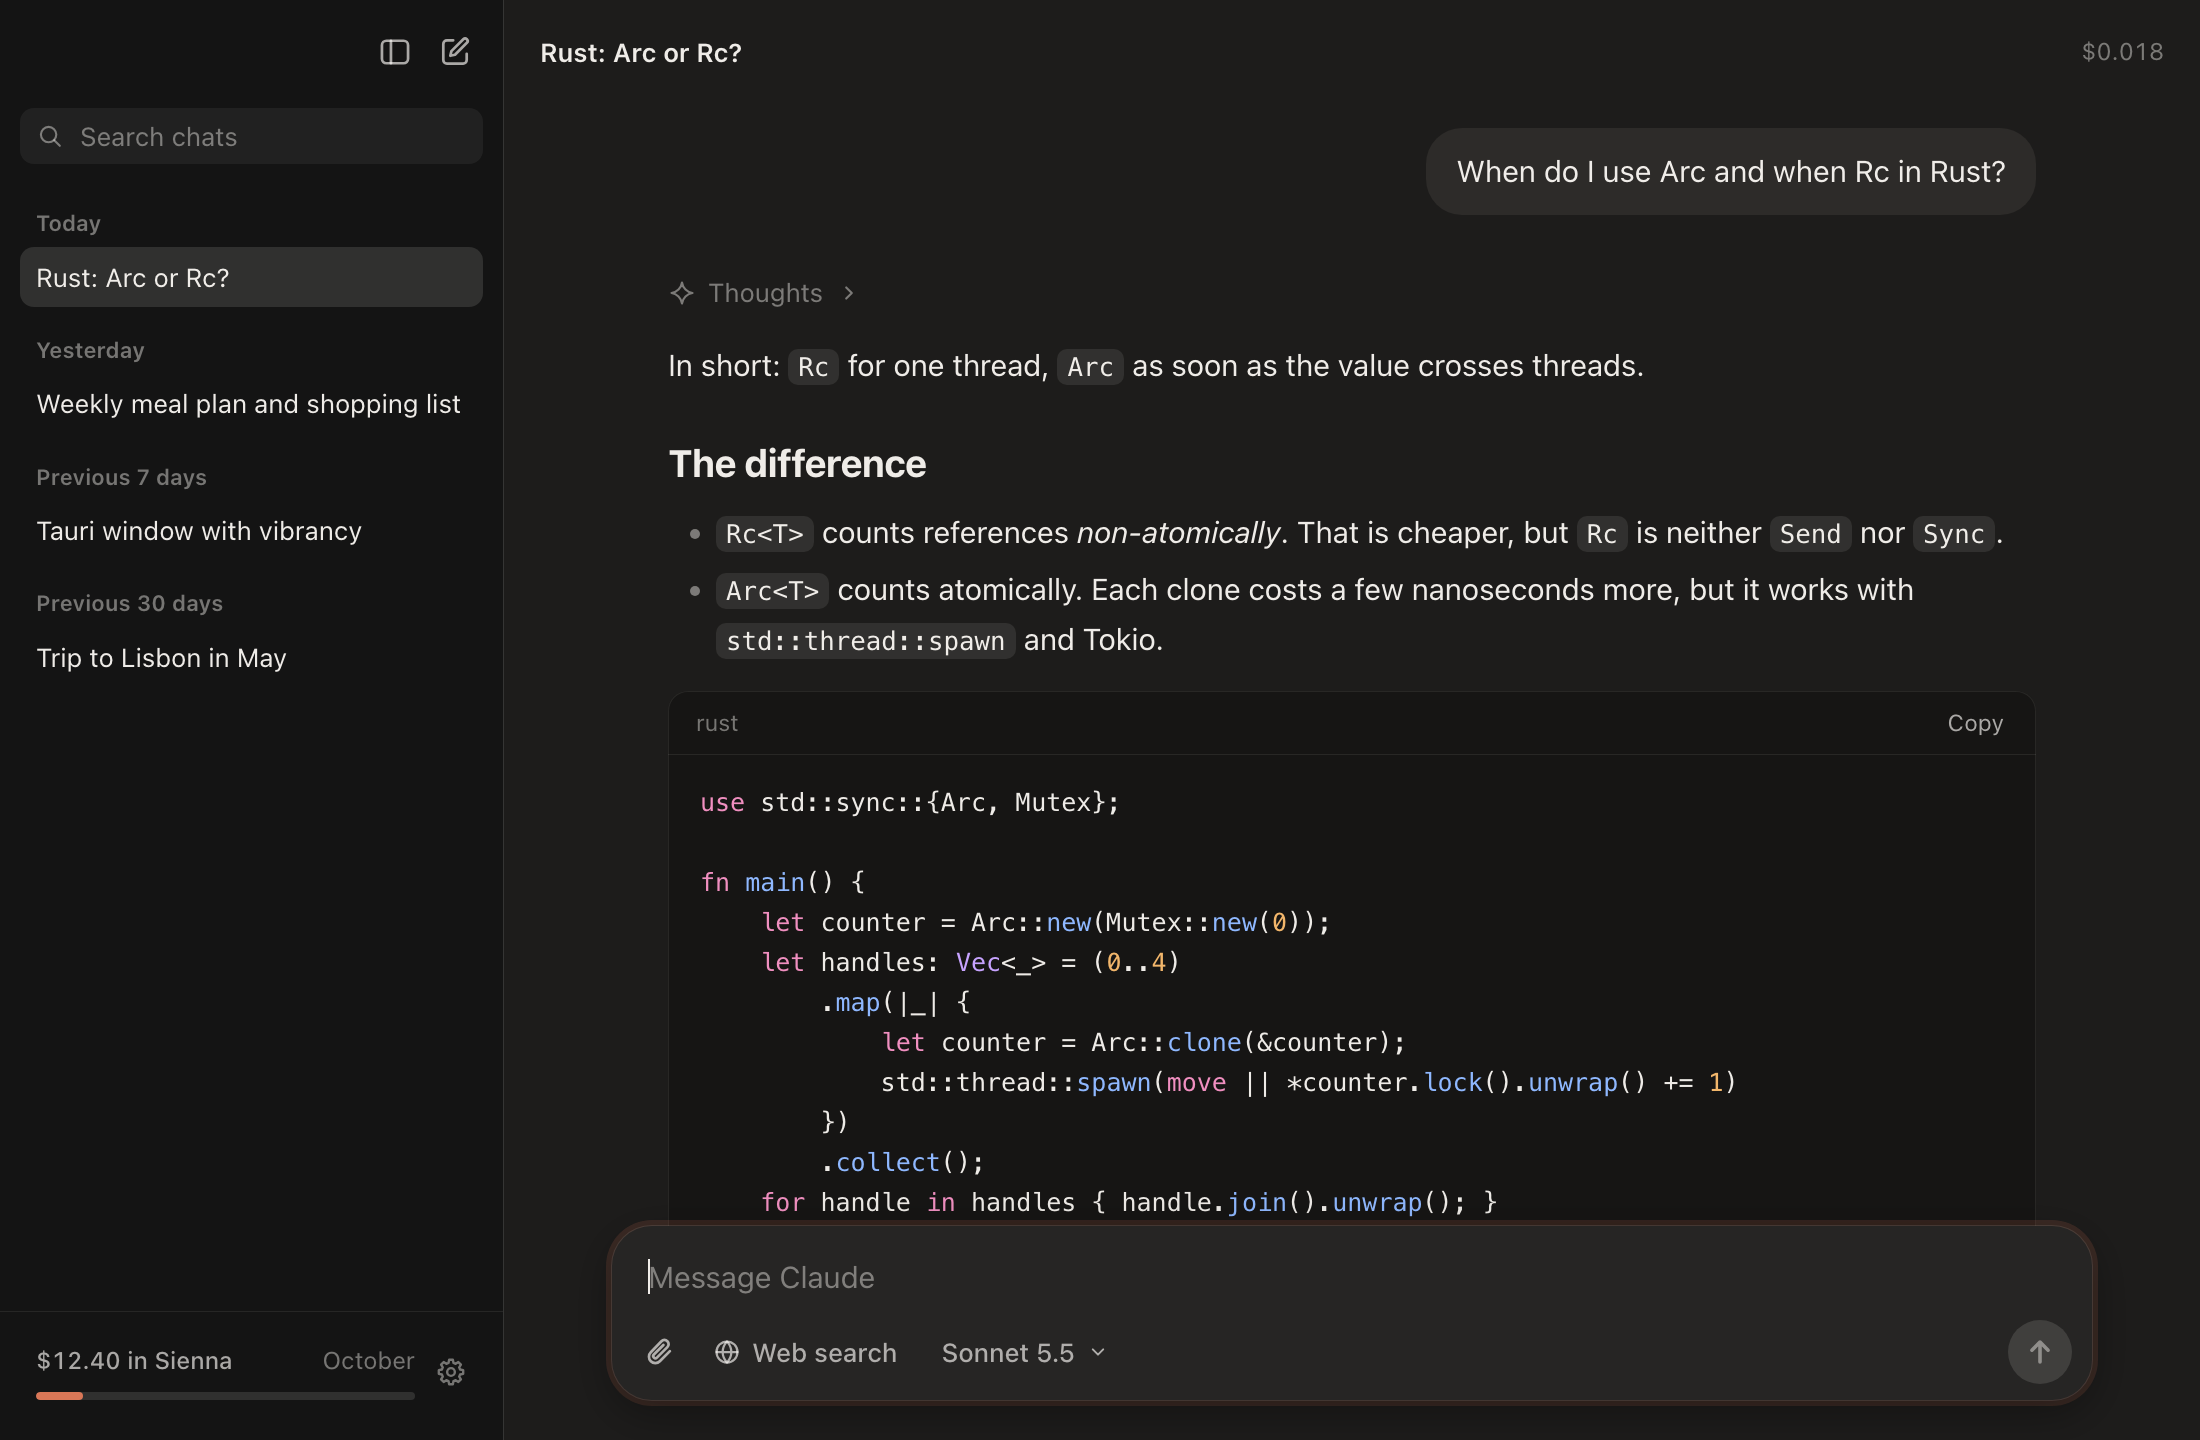
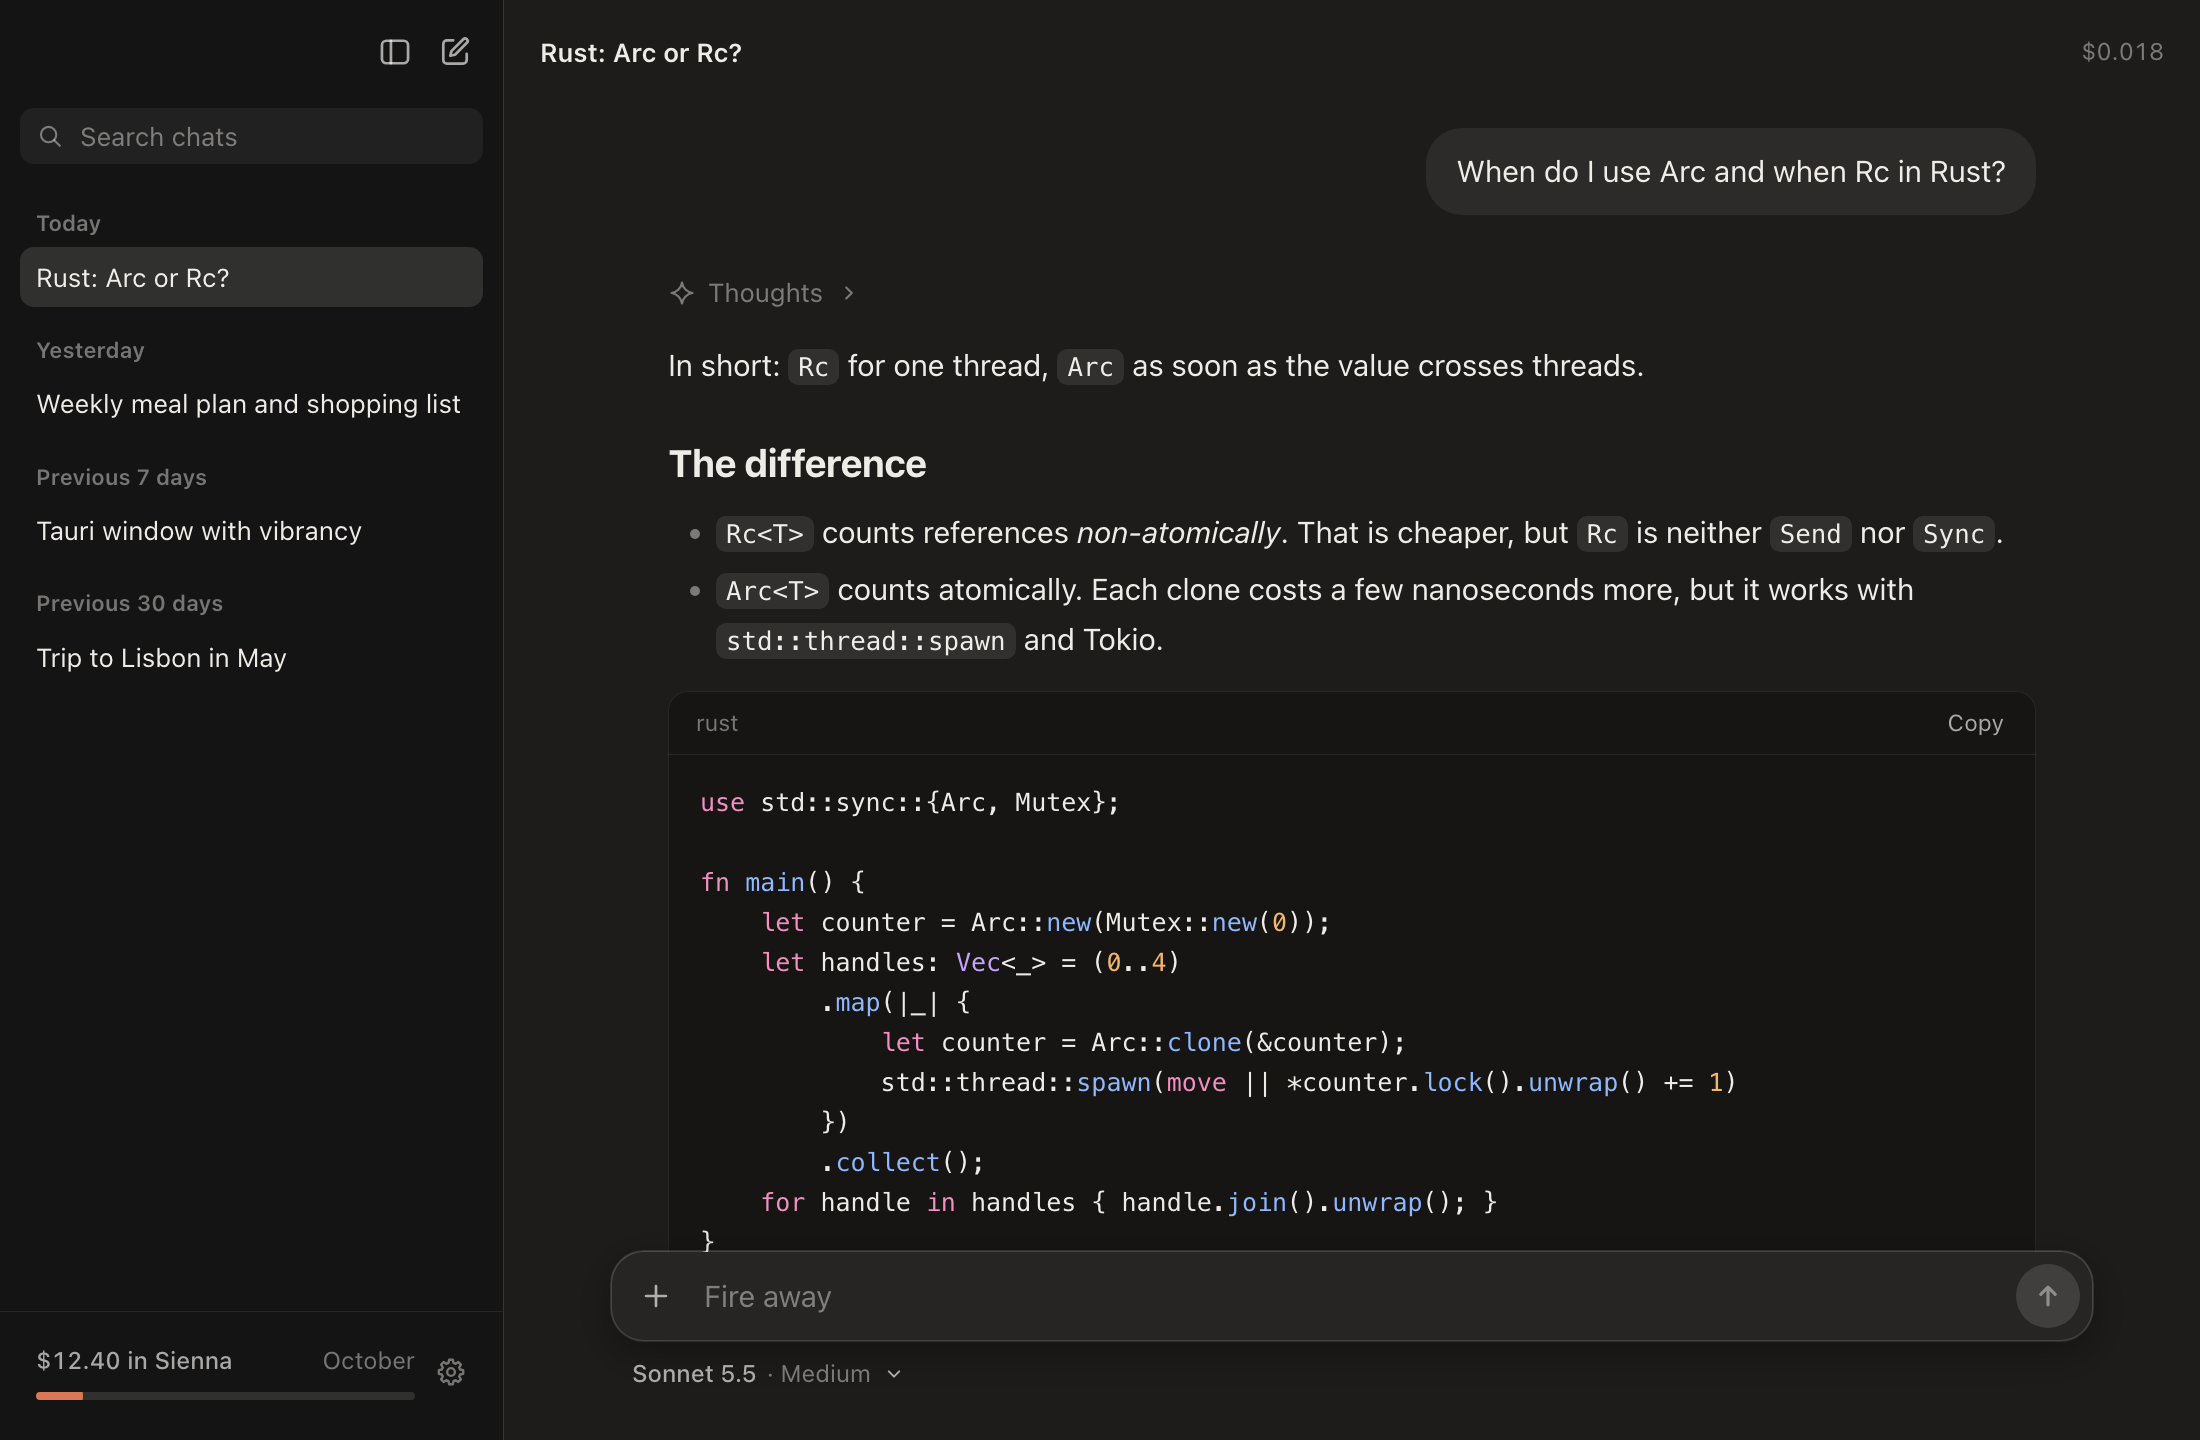
feat: greet by time of day, shorter placeholder
The empty chat greets by morning, day, evening or night; the composer
placeholder is "Schieß los" / "Fire away". README screenshots show the
new composer.

Changed region(s): [[0.2782, 0.8438, 0.9582, 0.9688], [0.2782, 0.9375, 0.4018, 0.9688], [0.4327, 0.9375, 0.4636, 0.9688]]

diff --git a/src/i18n.ts b/src/i18n.ts
@@ -40,11 +40,14 @@ const de = {
   "sidebar.settings": "Einstellungen (⌘,)",
 
   "chat.cost": "Kosten dieses Chats",
-  "chat.heroTitle": "Worüber möchtest du sprechen?",
+  "chat.greetMorning": "Guten Morgen. Womit fangen wir an?",
+  "chat.greetDay": "Was steht heute an?",
+  "chat.greetEvening": "Guten Abend. Woran tüftelst du?",
+  "chat.greetNight": "Noch wach? Lass uns nachdenken.",
   "chat.heroHint": "Läuft über dein API-Guthaben, nicht über dein Claude-Abo.",
   "chat.drop": "Bilder, PDFs oder Textdateien hier ablegen",
 
-  "composer.placeholder": "Frag Claude etwas",
+  "composer.placeholder": "Schieß los",
   "composer.more": "Anhängen und Optionen",
   "composer.webOff": "Websuche ausschalten",
   "composer.label": "Nachricht",
@@ -200,11 +203,14 @@ const en: Record<TextKey, string> = {
   "sidebar.settings": "Settings (⌘,)",
 
   "chat.cost": "Cost of this chat",
-  "chat.heroTitle": "What would you like to talk about?",
+  "chat.greetMorning": "Good morning. Where do we start?",
+  "chat.greetDay": "What's on today?",
+  "chat.greetEvening": "Good evening. What are you working on?",
+  "chat.greetNight": "Still up? Let's think it through.",
   "chat.heroHint": "Runs on your API credit, not your Claude subscription.",
   "chat.drop": "Drop images, PDFs or text files here",
 
-  "composer.placeholder": "Ask Claude anything",
+  "composer.placeholder": "Fire away",
   "composer.more": "Attach and options",
   "composer.webOff": "Turn off web search",
   "composer.label": "Message",

diff --git a/src/components/ChatView.tsx b/src/components/ChatView.tsx
@@ -1,11 +1,19 @@
 import { openUrl } from "@tauri-apps/plugin-opener";
 import { useCallback, useEffect, useRef, useState, type DragEvent, type MouseEvent } from "react";
 import { formatUsd, type Chat, type OutgoingAttachment } from "../api";
-import { t, useLanguage } from "../i18n";
+import { t, useLanguage, type TextKey } from "../i18n";
 import { redoLast, rewindPoint, sendMessage, stopMessage, updateChat } from "../store";
 import { Composer, type ComposerSettings } from "./Composer";
 import { SidebarIcon } from "./icons";
 import { MessageView } from "./MessageView";
+
+/** The empty chat greets by time of day. */
+function greeting(hour: number): TextKey {
+  if (hour >= 5 && hour < 11) return "chat.greetMorning";
+  if (hour >= 11 && hour < 18) return "chat.greetDay";
+  if (hour >= 18 && hour < 23) return "chat.greetEvening";
+  return "chat.greetNight";
+}
 
 interface Props {
   chat: Chat;
@@ -166,7 +174,7 @@ export function ChatView({ chat, sidebarOpen, onToggleSidebar, onSettingsChange 
       {empty ? (
         <div className="hero">
           <div className="hero-inner">
-            <h2 className="hero-title">{t("chat.heroTitle")}</h2>
+            <h2 className="hero-title">{t(greeting(new Date().getHours()))}</h2>
             {composer}
             <p className="hero-hint">{t("chat.heroHint")}</p>
           </div>
